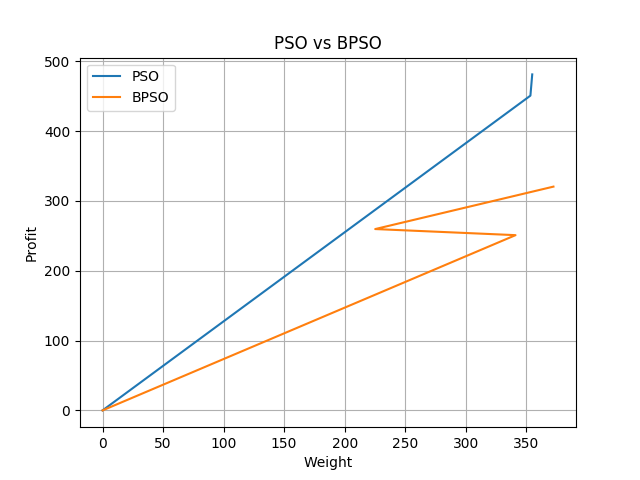
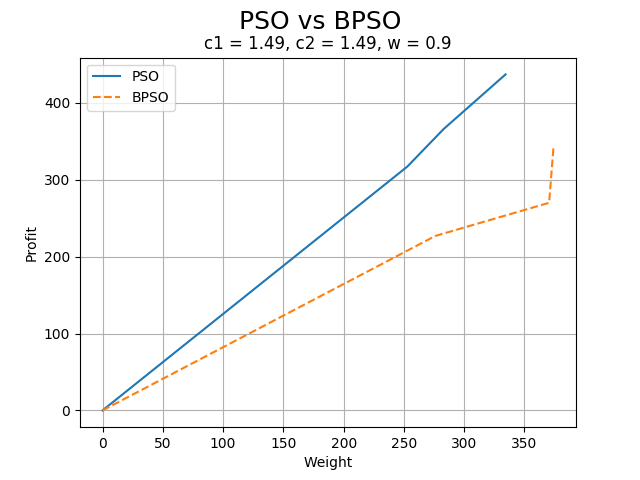
pso

diff --git a/main.py b/main.py
@@ -73,10 +73,11 @@ class Particle:
             self.personal_best = self.position
             self.err_personal_best = self.err_personal
 
-    def update_velocity(self, global_best):
-        w = 0.9  # constant inertia weight (how much to weigh the previous velocity)
-        c1 = 1.2  # cognitive constant (particle)
-        c2 = 1.9  # social constant (swarm)
+    def update_velocity(self, global_best, decr):
+        global w, c1, c2
+        w = 0.9  # round(0.9-decr, 1)  # constant inertia weight (how much to weigh the previous velocity)
+        c1 = 1.49  # cognitive constant (particle)
+        c2 = 1.49  # social constant (swarm)
 
         for i in range(num_dimensions):  # process each particle
             r1 = random.random()
@@ -85,6 +86,7 @@ class Particle:
             cognitive = c1 * r1 * (self.personal_best[i] - self.position[i])
             social = c2 * r2 * (global_best[i] - self.position[i])
             self.velocity[i] = w * self.velocity[i] + cognitive + social
+        
 
     def update_position(self, bounds, type_pso):
         for i in range(num_dimensions):  # process each particle
@@ -92,12 +94,13 @@ class Particle:
                 # _________ BPSO _______#
                 # If velocity is too high, the particle can fly over the best value,
                 # if is too low, the particle can’t make enough exploration. Velocity falls into the local optimum.
-                max_bounds = (bounds[i][1] - bounds[i][0])
+                vel_max = 4   # velocity [-4, 4]
+                # vel_max = (bounds[i][1] - bounds[i][0])
                 # limit the range of current velocity
-                if self.velocity[i] < -max_bounds:
-                    self.velocity[i] = -max_bounds
-                elif self.velocity[i] > max_bounds:
-                    self.velocity[i] = max_bounds
+                if self.velocity[i] < -vel_max:
+                    self.velocity[i] = -vel_max
+                elif self.velocity[i] > vel_max:
+                    self.velocity[i] = vel_max
 
                 # compute new position using new velocity
                 self.position[i] += self.velocity[i]
@@ -151,9 +154,8 @@ class PSO:
 
         # begin optimization loop
         iteration = 0
-        cnt_global_best = 0  # TODO: 10 iter
-        while iteration < max_iter:  # and cnt_global_best != 10:
-            global_best_prev = self.global_best  # save previus global best
+        while iteration < max_iter:
+            decr = round(0.9/max_iter*iteration, 1)  # linear decrese inertia w (LDIW) from 0.9 -> 0.0
 
             #  evaluate fitness of particles in swarm
             for j in range(num_particles):
@@ -164,13 +166,9 @@ class PSO:
                     self.global_best = list(swarm[j].position)
                     self.err_global_best = float(swarm[j].err_personal)
 
-            # if global best doesn't change after 10 times, the iteration terminate
-            if global_best_prev == self.global_best:
-                cnt_global_best += 1
-
             # update velocities and position
             for j in range(num_particles):
-                swarm[j].update_velocity(self.global_best)
+                swarm[j].update_velocity(self.global_best, decr)
                 swarm[j].update_position(bounds, type_pso)
 
             total_profit = 0
@@ -212,11 +210,12 @@ class PSO:
             else:
                 x2.append(self.step_weight[i])
                 y2.append(self.step_profit[i])
-        plt.plot(x1, y1, label="PSO")
-        plt.plot(x2, y2, label="BPSO")
+        plt.plot(x1, y1, linestyle='-',  label="PSO")
+        plt.plot(x2, y2, linestyle='--', label="BPSO")
         plt.xlabel('Weight')
         plt.ylabel('Profit')
-        plt.title('PSO vs BPSO')
+        plt.suptitle('PSO vs BPSO', fontsize=18)
+        plt.title('c1 = '+str(c1)+', c2 = '+str(c2)+', w = '+str(w))
         plt.legend()
         plt.grid(True)
         save_img_plot(file_name)
@@ -230,11 +229,13 @@ class PSO:
             else:
                 x2.append(self.iterations[i])
                 y2.append(self.fitness[i])
-        plt.plot(x1, y1, label="PSO")
-        plt.plot(x2, y2, label="BPSO")
+        plt.plot(x1, y1, linestyle='-',  label="PSO")
+        plt.plot(x2, y2, linestyle='--', label="BPSO")
+        plt.xscale('symlog')
         plt.xlabel('iterations')
         plt.ylabel('fitness')
-        plt.title('Evolution of solutions')
+        plt.suptitle('Evolution of solutions', fontsize=18)
+        plt.title('c1 = '+str(c1)+', c2 = '+str(c2)+', w = '+str(w))
         plt.legend()
         plt.grid(True)
         save_img_plot(file_name)
@@ -245,7 +246,7 @@ def main():
     global value, weight, max_weight, obj_num, optimum
     num = input("insert number from 1 to 10: ")
     # print('profit, weight')
-    dataset = d.data(True, int(num) - 1)
+    dataset = d.data(int(num) - 1, low=True)
     value = []
     weight = []
 
@@ -265,13 +266,16 @@ def main():
     bounds = []
     length = len(value)
 
-    choice = input("Knapsack 0-1 (y/n)?: ").lower()
-    if choice == "y":
-        choice = True
-    elif choice == "n":  # Knapsack with items repetitions
-        choice = False
-    if not isinstance(choice, bool):
-        print("error bool")
+    try:
+        choice = input("Knapsack 0-1 (y/n)?: ").lower()
+        if choice == "y":
+            choice = True
+        elif choice == "n":  # Knapsack with items repetitions
+            choice = False
+        if not isinstance(choice, bool):
+            print("error bool")
+    except ValueError:
+        print("Input error!")
 
     if not choice:
         print('\n[lower limit - upper limit]')
@@ -290,8 +294,11 @@ def main():
 
     print('There are a total of', length, 'variable...\n')
 
-    max_iter = int(input("Insert max of iteration: "))
-    num_particles = int(input("Insert number of particles: "))
+    try:
+        max_iter = int(input("Insert max of iteration: "))
+        num_particles = int(input("Insert number of particles: "))
+    except ValueError:
+        print("Input error!")
 
     print('-' * 20, '\n# obj: ', obj_num, '\nmax weight: ', max_weight, '\noptimum profit to achieve: ', optimum)
     print('-' * 20, '\nFINAL RESULTS:')
@@ -302,9 +309,9 @@ def main():
     # pso.plot_result(file_name="pso_result")
     # pso.plot_evolution(file_name="pso_evolution")
 
-    pso = PSO(maximize, initial, bounds, num_particles, max_iter, "BPSO", False)
+    bpso = PSO(maximize, initial, bounds, num_particles, max_iter, "BPSO", False)
     print('_' * 10, 'BPSO', '_' * 10, sep='')
-    pso.result()
+    bpso.result()
 
     pso.plot_result(file_name="result")
     pso.plot_evolution(file_name="evolution")
@@ -312,5 +319,3 @@ def main():
 
 if __name__ == '__main__':
     main()
-# TODO: large_scale
-# TODO: fix plotting
